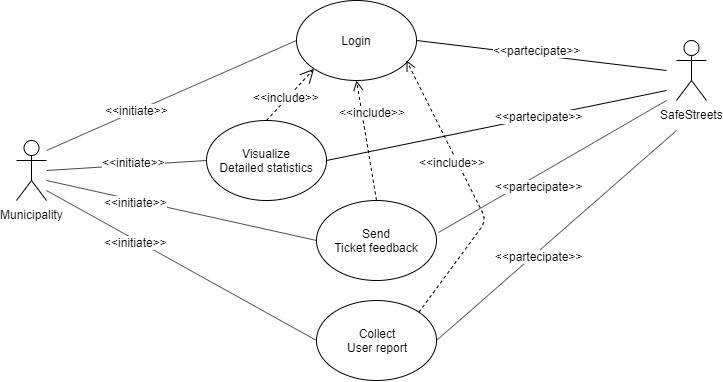
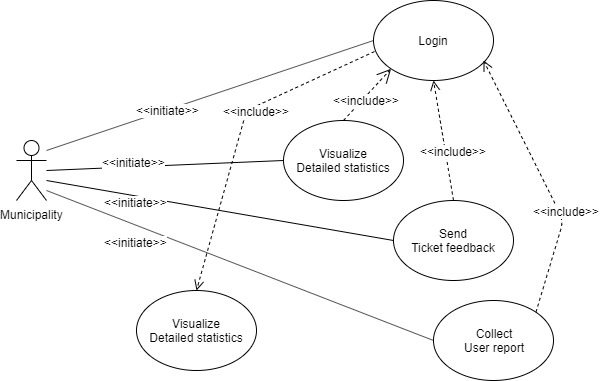
Some corrections
Added a requirement, removed an assumption, minor changes to one scenario, use case diagram, use case analysis and some sequence diagrams

diff --git a/RASD/3.SpecificRequirements/2.FunctionalRequirements/3.UseCasesAnalysis/UseCasesAnalysis.tex b/RASD/3.SpecificRequirements/2.FunctionalRequirements/3.UseCasesAnalysis/UseCasesAnalysis.tex
@@ -8,8 +8,8 @@ i st\documentclass[../../../rasd.tex]{subfiles}
 	\begin{longtable}{| p{.25\linewidth} | p{.75\linewidth} |}
 		
 		\hline
-		\textbf{Name} & \textbf{User Sign Up}\\ \hline
-		Actors & \ic{User}, SafeStreets\\ \hline
+		\textbf{Name} & \textbf{U1: User Sign Up}\\ \hline
+		Actors & \ic{User}\\ \hline
 		Entry Conditions & \ic{User} successfully installed SafeStreets application on the smartphone\\ \hline
 		Events Flow & 
 		\begin{enumerate}
@@ -43,8 +43,8 @@ i st\documentclass[../../../rasd.tex]{subfiles}
 	\begin{longtable}{| p{.25\linewidth} | p{.75\linewidth} |}
 		
 		\hline
-		\textbf{Name} & \textbf{User Login}\\ \hline
-		Actors & \ic{User}, SafeStreets\\ \hline
+		\textbf{Name} & \textbf{U2: \ic{User} Login}\\ \hline
+		Actors & \ic{User}\\ \hline
 		Entry Conditions & \ic{User} successfully installed SafeStreets application on the smartphone and registered on SafeStreets\\ \hline
 		Events Flow & 
 		\begin{enumerate}
@@ -73,8 +73,8 @@ i st\documentclass[../../../rasd.tex]{subfiles}
 	\begin{longtable}{| p{.25\linewidth} | p{.75\linewidth} |}
 		
 		\hline
-		\textbf{Name} & \textbf{\ic{Municipality} Login}\\ \hline
-		Actors & \ic{Municipality}, SafeStreets\\ \hline
+		\textbf{Name} & \textbf{U3: \ic{Municipality} Login}\\ \hline
+		Actors & \ic{Municipality}\\ \hline
 		Entry Conditions & \ic{Municipality} is connected to the \ic{Municipality} dedicated web site\\ \hline
 		Events Flow & 
 		\begin{enumerate}
@@ -104,15 +104,15 @@ i st\documentclass[../../../rasd.tex]{subfiles}
 	\begin{longtable}{| p{.25\linewidth} | p{.75\linewidth} |}
 		
 		\hline
-		\textbf{Name} & \textbf{SafeStreets sends \ic{User report} to \ic{Municipality}}\\ \hline
-		Actors & \ic{User}, SafeStreets, \ic{License plate recognition service}, \ic{Municipality}\\ \hline
+		\textbf{Name} & \textbf{U4: \ic{User} sends \ic{User report} to \ic{Municipality}}\\ \hline
+		Actors & \ic{User}, \ic{License plate recognition service}, \ic{Municipality}\\ \hline
 		Entry Conditions & \ic{User} successfully logged into SafeStreets and installed SafeStreets application on the smartphone\\ \hline
 		Events Flow & 
 		\begin{enumerate}
 			\item \ic{User} takes a picture of the \ic{Traffic violation}
 			\item \ic{User} presses the “Confirm” button
 			\item SafeStreets receives \ic{User picture} and forward it to the \ic{License plate recognition service}
-			\item \ic{License plate recognition service} sends back to SafeStreets a text representing the \ic{Recognized license plate}
+			\item \ic{License plate recognition service} sends back to SafeStreets a text representing the \ic{Recognized license plate}, if it is successfully recognized
 			\item \ic{User} selects a \ic{Type of violation} and presses the “Send” button
 			\item SafeStreets stores the newly generated \ic{User report} in its own Database
 			\item SafeStreets sends \ic{Municipality} the newly generated \ic{User report}
@@ -122,8 +122,10 @@ i st\documentclass[../../../rasd.tex]{subfiles}
 		Exceptions & 
 		\begin{enumerate}
 			\item No \ic{Type of violation} has been selected
+			\item The \ic{License plate recognition service} couldn't recognize a license plate inside the \ic{User picture}
 		\end{enumerate}
-		\ic{User} is asked to select a choice for the missing parameter.\\ 
+		Exception 1: \ic{User} is asked to select a choice for the missing parameter  \newline
+		Exception 2: \ic{User} is asked to re-take the picture\\ 
 		\hline
 		\caption*{U\subs{4}}
 	\end{longtable}
@@ -137,8 +139,8 @@ i st\documentclass[../../../rasd.tex]{subfiles}
 	\begin{longtable}{| p{.25\linewidth} | p{.75\linewidth} |}
 		
 		\hline
-		\textbf{Name} & \textbf{\ic{Municipality} answers to a \ic{User report}}\\ \hline
-		Actors & SafeStreets, \ic{Municipality}\\ \hline
+		\textbf{Name} & \textbf{U5: \ic{Municipality} answers to a \ic{User report}}\\ \hline
+		Actors & \ic{Municipality}\\ \hline
 		Entry Conditions & \ic{Municipality} successfully logged into SafeStreets\\ \hline
 		Events Flow & 
 		\begin{enumerate}
@@ -162,8 +164,8 @@ i st\documentclass[../../../rasd.tex]{subfiles}
 	\begin{longtable}{| p{.25\linewidth} | p{.75\linewidth} |}
 		
 		\hline
-		\textbf{Name} & \textbf{\ic{User} visualizes \ic{Public statistics}}\\ \hline
-		Actors & \ic{User}, SafeStreets\\ \hline
+		\textbf{Name} & \textbf{U6: \ic{User} visualizes \ic{Public statistics}}\\ \hline
+		Actors & \ic{User}\\ \hline
 		Entry Conditions & \ic{User} successfully logged into SafeStreets\\ \hline
 		Events Flow & 
 		\begin{enumerate}
@@ -191,8 +193,8 @@ i st\documentclass[../../../rasd.tex]{subfiles}
 	\begin{longtable}{| p{.25\linewidth} | p{.75\linewidth} |}
 		
 		\hline
-		\textbf{Name} & \textbf{\ic{Municipality} visualizes \ic{Detailed statistics}}\\ \hline
-		Actors & \ic{Municipality}, SafeStreets\\ \hline
+		\textbf{Name} & \textbf{U7: \ic{Municipality} visualizes \ic{Detailed statistics}}\\ \hline
+		Actors & \ic{Municipality}\\ \hline
 		Entry Conditions & \ic{Municipality} successfully logged into SafeStreets\\ \hline
 		Events Flow & 
 		\begin{enumerate}
@@ -214,14 +216,13 @@ i st\documentclass[../../../rasd.tex]{subfiles}
 
 %--- --- --- --- ---
 
-\newpage
 % U8:
 \begin{center}
 	\begin{longtable}{| p{.25\linewidth} | p{.75\linewidth} |}
 		
 		\hline
-		\textbf{Name} & \textbf{\ic{SafeStreets} suggests \ic{Possible interventions} to \ic{Municipality}}\\ \hline
-		Actors & \ic{Municipality}, SafeStreets\\ \hline
+		\textbf{Name} & \textbf{U8: \ic{SafeStreets} suggests \ic{Possible interventions} to \ic{Municipality}}\\ \hline
+		Actors & \ic{Municipality}\\ \hline
 		Entry Conditions & \ic{Municipality} grants SafeStreets access to its own \ic{Accidents} Database\\ \hline
 		Events Flow & 
 		\begin{enumerate}
@@ -239,13 +240,14 @@ i st\documentclass[../../../rasd.tex]{subfiles}
 
 %--- --- --- --- ---
 
+\newpage
 % U9:
 \begin{center}
 	\begin{longtable}{| p{.25\linewidth} | p{.75\linewidth} |}
 		
 		\hline
-		\textbf{Name} & \textbf{\ic{User} visualizes his/her contribution to SafeStreets}\\ \hline
-		Actors & \ic{User}, SafeStreets\\ \hline
+		\textbf{Name} & \textbf{U9: \ic{User} visualizes his/her contribution to SafeStreets}\\ \hline
+		Actors & \ic{User}\\ \hline
 		Entry Conditions & \ic{User} successfully logged into SafeStreets\\ \hline
 		Events Flow & 
 		\begin{enumerate}

diff --git a/RASD/3.SpecificRequirements/2.FunctionalRequirements/1.Scenarios/Scenarios.tex b/RASD/3.SpecificRequirements/2.FunctionalRequirements/1.Scenarios/Scenarios.tex
@@ -8,7 +8,7 @@
 	
 	\item[S\subs{2}]A \ic{Municipality} officier opens SafeStreets web app. He is asked to insert \ic{Reference code} and password in order to access the system, so he inserts his \ic{Municipality} institutional credentials and he is now logged in and can use SafeStreets services;
 	
-	\item[S\subs{3}]Michael, a SafeStreets \ic{User}, is walking down a street and, when he’s about to cross the road, he realizes he can’t access the pedestrian crossing from the walk side, because of a car parked there. So he opens the app and presses the “Camera” button in the tab bar of the main view, frames the car, making sure that the violation and the license plate are clearly visible, and takes the picture. After pressing the “Confirm” button he is asked to select the “\ic{Type of violation}”, choosing from a drop-down list of possible violations, and presses again on the “Send” button, in order to send his \ic{User report};
+	\item[S\subs{3}]Michael, a SafeStreets \ic{User}, is walking down a street and, when he’s about to cross the road, he realizes he can’t access the pedestrian crossing from the walk side, because of a car parked there. So he opens the app and presses the “Camera” button in the tab bar of the main view, frames the car, making sure that the violation and the license plate are clearly visible, and takes the picture. After pressing the “Confirm” button, he waits for the "License plate successfully recognized" message. Then, he is asked to select the “\ic{Type of violation}”, choosing from a drop-down list of possible violations, and presses again on the “Send” button, in order to send his \ic{User report};
 	
 	\item[S\subs{4}]Michael, from scenario S\subs{3}, opens the app and taps on “MyReports” in the tab bar of the main view, to see if the last \ic{User report} he has sent has already been evaluated, eventually becoming a \ic{Traffic ticket}, but he sees that the \ic{Ticket feedback} color is red, which means that a \ic{Traffic ticket} has not been generated from his \ic{User report}. To know more, he presses on the “More info” button and understands that the reason why it was not generated is that it was not an actual violation;
 	

diff --git a/RASD/3.SpecificRequirements/2.FunctionalRequirements/6.SatisfyingGoals/SatisfyingGoals.tex b/RASD/3.SpecificRequirements/2.FunctionalRequirements/6.SatisfyingGoals/SatisfyingGoals.tex
@@ -15,6 +15,7 @@
 		\item[R\subs{8}]Receive \ic{Recognized license plate} from the \ic{License plate recognition service};
 		\item[R\subs{9}]Create \ic{User report};
 		\item[R\subs{10}]Store \ic{User report} in SafeStreets Database;
+		\item[R\subs{33}]Allow \ic{User} to re-take the \ic{User picture};
 		\\
 		\item[D\subs{1}]Data inserted by the \ic{User} at sign up corresponds to their real data;
 		\item[D\subs{2}]\ic{User position} collected at a certain instant corresponds to the acual position of the \ic{User} at that exact moment;
@@ -22,7 +23,6 @@
 		\item[D\subs{4}]\ic{Users} own a working smartphone which has access to Internet connection;
 		\item[D\subs{5}]\ic{Users} own a working smartphone which has a working GPS antenna;
 		\item[D\subs{6}]SafeStreets and \ic{License plate recognition service} is always online;
-		\item[D\subs{7}]\ic{License plate recognition service} always provides a text representing a correct recognition of the license plate in the \ic{User picture};
 	\end{itemize}
 
 	\item[G\subs{2}]Send \ic{User report} to \ic{Municipality} as soon as it is generated;
@@ -38,6 +38,7 @@
 	\begin{itemize}
 		\item[R\subs{4}]Receive \ic{User picture};
 		\item[R\subs{7}]Send \ic{User picture} to the \ic{License plate recognition service};
+		\item[R\subs{33}]Allow \ic{User} to re-take the \ic{User picture};
 		\\
 		\item[D\subs{6}]SafeStreets and \ic{License plate recognition service} are always online;
 	\end{itemize}
@@ -53,7 +54,7 @@
 		\item[R\subs{19}]Send \ic{Detailed statistics} to the requesting \ic{Municipality};
 		\item[R\subs{31}]Identify \ic{Municipality} by its \ic{Reference code};
 		\\
-		\item[D\subs{9}]\ic{Municipality} has institutional credentials (\ic{Reference code} and password) which uses to access the system;
+		\item[D\subs{7}]\ic{Municipality} has institutional credentials (\ic{Reference code} and password) which uses to access the system;
 	\end{itemize}
 
 	\item[G\subs{5}]Allow \ic{Users} to visualize \ic{Public statistics};

diff --git a/RASD/3.SpecificRequirements/2.FunctionalRequirements/4.SequenceDiagrams/SequenceDiagrams.tex b/RASD/3.SpecificRequirements/2.FunctionalRequirements/4.SequenceDiagrams/SequenceDiagrams.tex
@@ -3,10 +3,11 @@
 
 \subsection{Sequence Diagrams\label{sect:3.2.4}}
 
-\image {10cm} {./Sequence_Diagrams/User_report.jpg} {User report Sequence Diagram} {SequenceDiagram}
-\image {7cm} {./Sequence_Diagrams/Public_statistics_visualization.jpg} {Public statistics visualization Sequence Diagram} {SequenceDiagram}
-\image {8cm} {./Sequence_Diagrams/Detailed_statistics_visualization.jpg} {Detailed statistics visualization Sequence Diagram} {SequenceDiagram}
-\image {5cm} {./Sequence_Diagrams/Possible_interventions.jpg} {Possible interventions Sequence Diagram} {SequenceDiagram}
-\image {6cm} {./Sequence_Diagrams/User_contribution.jpg} {User contribution Sequence Diagram} {SequenceDiagram} 
+\image {10cm} {./Sequence_Diagrams/U4_User_sends_User_report_to_Municipality.jpg} {U4: User sends User report to Municipality Sequence Diagram} {SequenceDiagram}
+\image {8cm} {./Sequence_Diagrams/U5_Municipality_answers_to_a_User_report.jpg} {U5: Municipality answers to a User report Sequence Diagram} {SequenceDiagram}
+\image {7cm} {./Sequence_Diagrams/U6_User_visualizes_Public_statistics.jpg} {U6: User visualizes Public statistics Sequence Diagram} {SequenceDiagram}
+\image {8cm} {./Sequence_Diagrams/U7_Municipality_visualizes_Detailed_statistics.jpg} {U7: Municipality visualizes Detailed statistics Sequence Diagram} {SequenceDiagram}
+\image {5cm} {./Sequence_Diagrams/U8_SafeStreets_suggests_Possible_interventions_to_Municipality.jpg} {U8: SafeStreets suggests Possible interventions to Municipality Sequence Diagram} {SequenceDiagram}
+\image {6cm} {./Sequence_Diagrams/U9_User_visualizes_his_her_contribution_to_SafeStreets.jpg} {U9: User visualizes his/her contribution to SafeStreets Sequence Diagram} {SequenceDiagram} 
 
 \end{document}

diff --git a/RASD/2.OverallDescription/4.AssumptionsDependenciesAndConstraints/AssumptionsDependenciesAndConstraints.tex b/RASD/2.OverallDescription/4.AssumptionsDependenciesAndConstraints/AssumptionsDependenciesAndConstraints.tex
@@ -10,9 +10,8 @@
 	 		\item[D\subs{4}]\ic{Users} own a working smartphone which has access to Internet connection;
 	 		\item[D\subs{5}]\ic{Users} own a working smartphone which has a working GPS antenna;
 	 		\item[D\subs{6}]SafeStreets and \ic{License plate recognition service} are always online;
-	 		\item[D\subs{7}]\ic{License plate recognition service} always provides a text representing a correct recognition of the license plate in the \ic{User picture};
-	 		\item[D\subs{8}]\ic{Municipality} grants access to its own \ic{Accidents} Database;
-	 		\item[D\subs{9}]\ic{Municipality} has institutional credentials (\ic{Reference code} and password) which uses to access the system.
+	 		\item[D\subs{7}]\ic{Municipality} has institutional credentials (\ic{Reference code} and password) which uses to access the system;
+	 		\item[D\subs{8}]\ic{Municipality} grants access to its own \ic{Accidents} Database.
 	 	\end{itemize}
  	
  	\subsection{Dependencies}

diff --git a/RASD/3.SpecificRequirements/2.FunctionalRequirements/2.UseCaseDiagrams/UseCaseDiagrams.tex b/RASD/3.SpecificRequirements/2.FunctionalRequirements/2.UseCaseDiagrams/UseCaseDiagrams.tex
@@ -3,11 +3,11 @@
 
 \subsection{Use Case Diagrams\label{sect:3.2.2}}
 
-\image {13cm} {./Images/Use_Case_Diagrams/User.jpg} {User Use Case Diagram} {UseCaseDiagram}
+\image {9cm} {./Images/Use_Case_Diagrams/User.jpg} {User Use Case Diagram} {UseCaseDiagram}
 
-\image {13cm} {./Images/Use_Case_Diagrams/Municipality.jpg} {Municipality Use Case Diagram} {UseCaseDiagram}
+\image {7cm} {./Images/Use_Case_Diagrams/Municipality.jpg} {Municipality Use Case Diagram} {UseCaseDiagram}
 
-\image {13cm} {./Images/Use_Case_Diagrams/SafeStreets.jpg} {SafeStreets Use Case Diagram} {UseCaseDiagram}
+\image {13cm} {./Images/Use_Case_Diagrams/general.jpg} {General Use Case Diagram} {UseCaseDiagram}
 
 \newpage
 \end{document}

diff --git a/RASD/3.SpecificRequirements/2.FunctionalRequirements/5.Requirements/Requirements.tex b/RASD/3.SpecificRequirements/2.FunctionalRequirements/5.Requirements/Requirements.tex
@@ -35,7 +35,8 @@
 	\item[R\subs{29}]Generate \ic{Possible interventions} crossing \ic{Municipality} \ic{Accidents} data with SafeStreets Database data;
 	\item[R\subs{30}]Send generated \ic{Possible interventions} to \ic{Municipality};
 	\item[R\subs{31}]Identify \ic{Municipality} by its \ic{Reference code};
-	\item[R\subs{32}]Receive \ic{Ticket feedback} from \ic{Municipality}.
+	\item[R\subs{32}]Receive \ic{Ticket feedback} from \ic{Municipality};
+	\item[R\subs{33}]Allow \ic{User} to re-take the \ic{User picture}.
 
 	
 \end{itemize}
